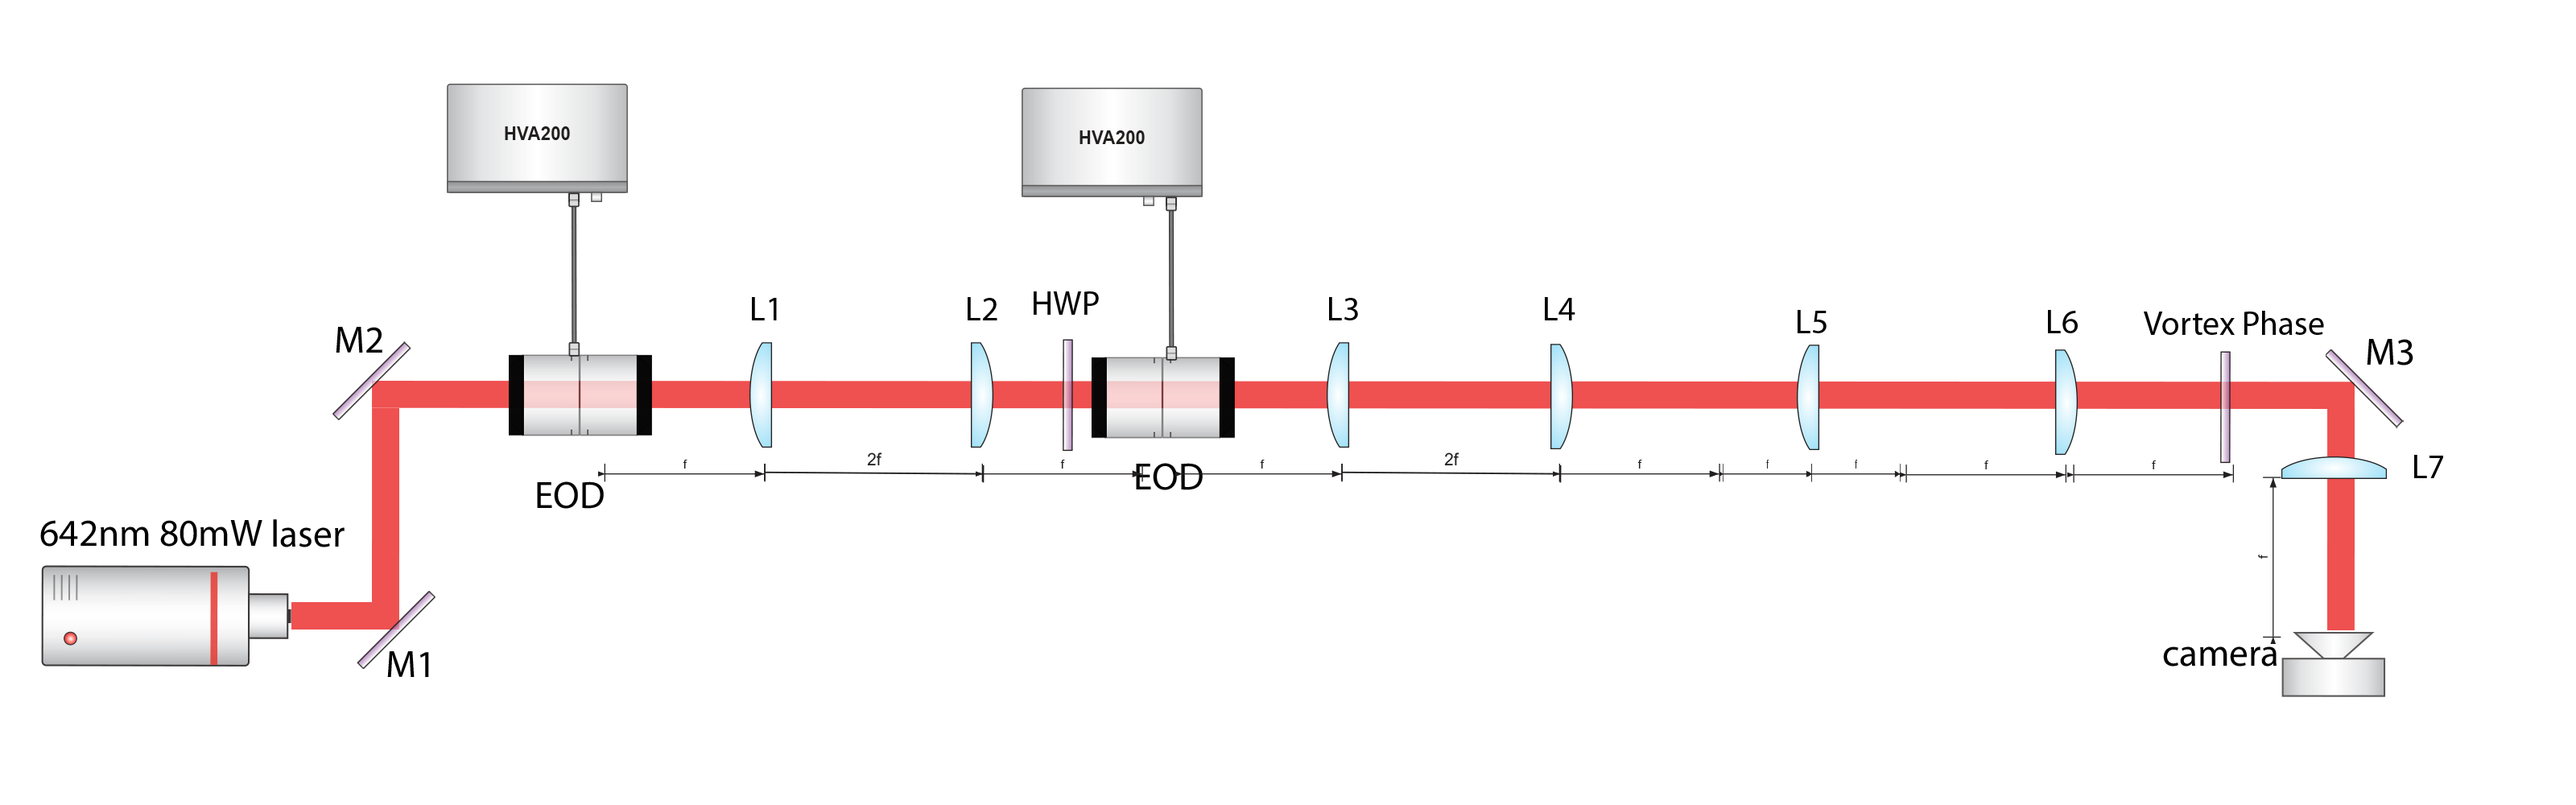
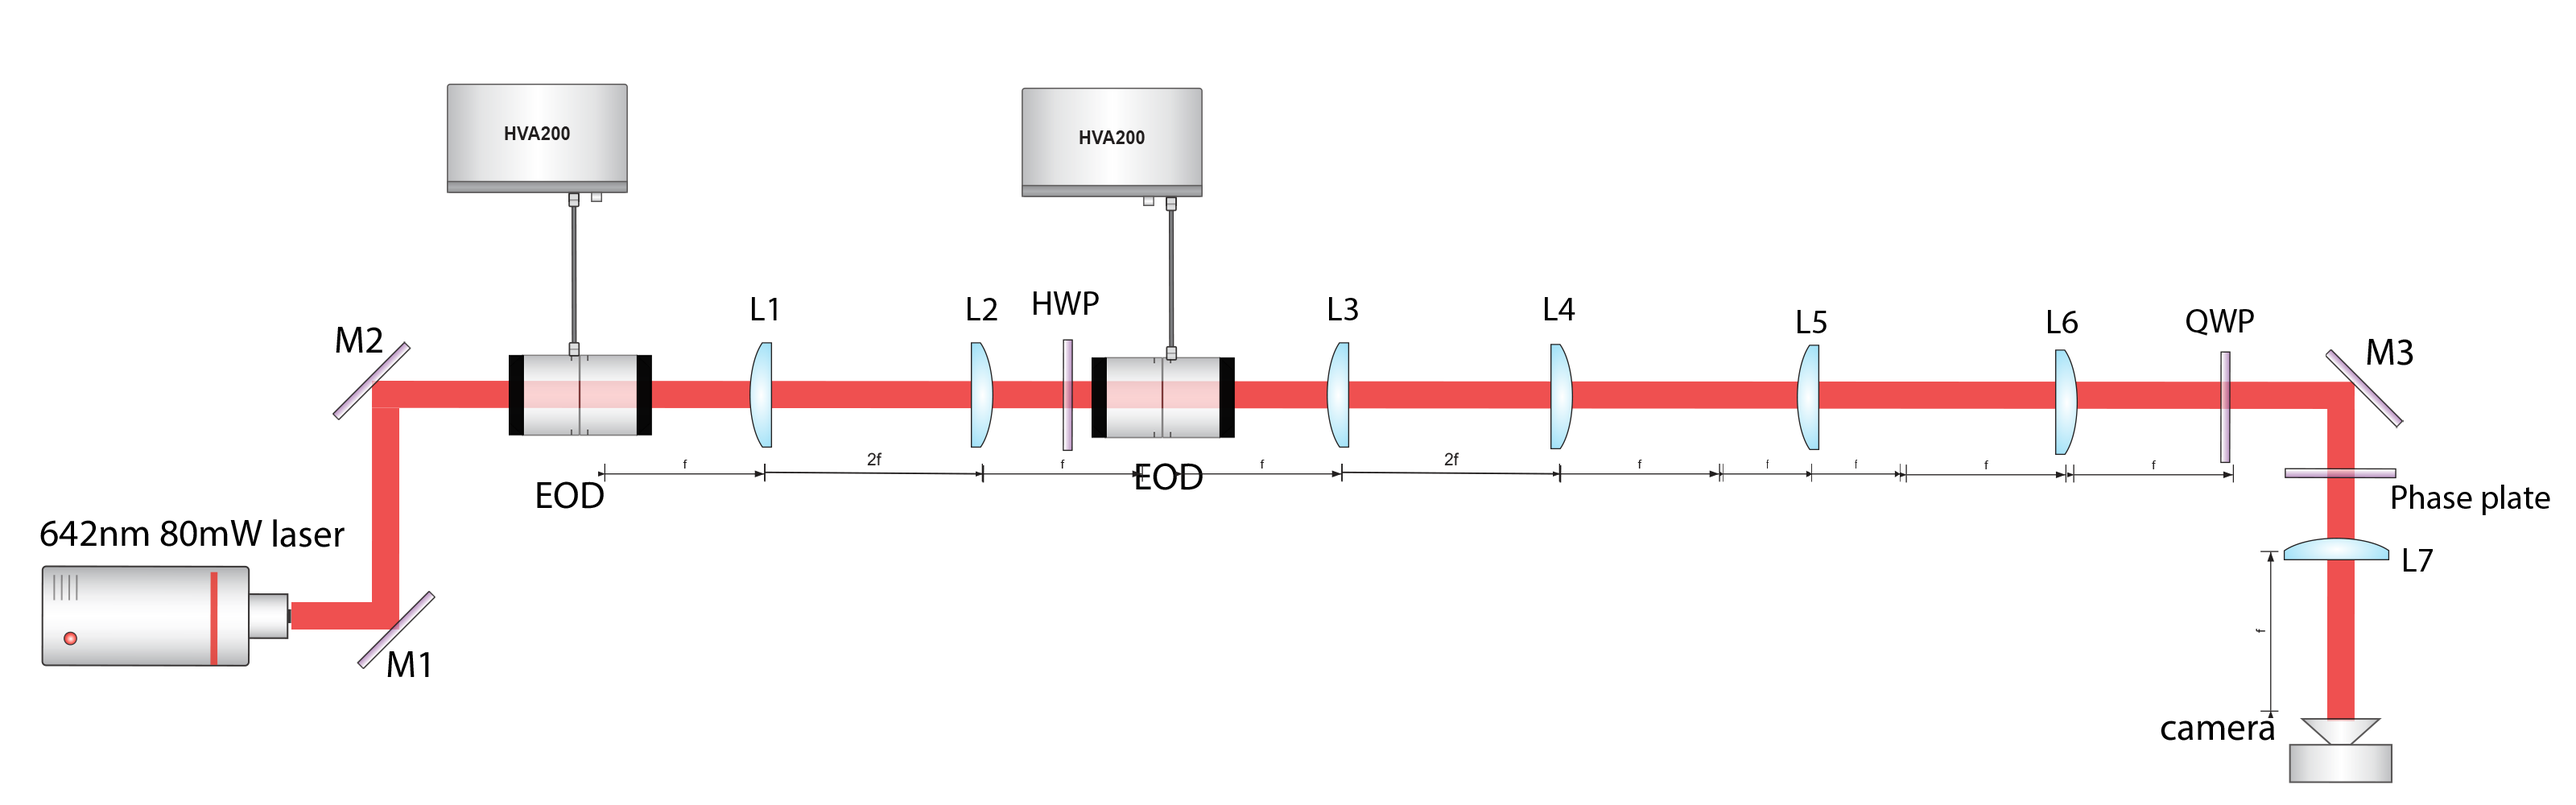
Place the QWP at the conjugate plane and the vortex plate after M3
Follows the user's corrected drawing: QWP one focal length beyond L6,
fold mirror M3, then the vortex plate just ahead of L7.

diff --git a/main.tex b/main.tex
@@ -1010,12 +1010,12 @@ than the other; an uneven ring is the signature of a decentred plate.
 Polarization adds one more condition, but only at high numerical aperture. When the beam is
 focused tightly by a microscope objective, part of the field turns to point along the axis, and that
 component can fill the zero unless the beam is circularly polarized with the handedness opposite to
-the twist of its phase \cite{lopezOptimizationCharacterizationToroidal2023}, which is why the
-instrument path carries a quarter-wave plate \cite{becerraQuantifyingProteinInteractions2024}. The
-bench measurements below focus the donut with a single lens of low numerical aperture, where the
-field remains transverse and the polarization does not affect the null, so they test the vortex
-itself; the bench carries no quarter-wave plate, and the polarization condition has to be verified
-at the focus of the objective.
+the twist of its phase \cite{lopezOptimizationCharacterizationToroidal2023}. This is why a
+quarter-wave plate sets circular polarization ahead of the vortex plate, both on the bench below
+and in the instrument \cite{becerraQuantifyingProteinInteractions2024}. The bench measurements
+focus the donut with a single lens of low numerical aperture, where the field remains transverse
+and the polarization should not affect the null, so they test the vortex itself; the handedness
+condition has to be verified at the focus of the objective.
 
 \subsection{Characterization}
 
@@ -1056,19 +1056,20 @@ two mirrors into EOD34, whose deflection plane lenses L1 and L2 relay onto EOD35
 plate between them setting the input polarization of the second crystal. Two further relays follow
 EOD35, each a pair of lenses two focal lengths apart: L3 and L4 image the deflection plane of EOD35
 onto an intermediate plane one focal length beyond L4, and L5 and L6 image that plane in turn onto
-the vortex phase plate, a Vortex Photonics \texttt{V-633-10-1} of charge one, placed one focal
-length beyond L6. The plate therefore sits in a plane conjugate to both deflectors: a deflection
-tilts the beam as it crosses the plate but does not move it across the plate's centre, which is the
-arrangement the instrument relies on to steer the donut without degrading it. After the plate the
-beam is folded by mirror M3 into lens L7, and the camera lies at the focal plane of L7. There the
-dark core is fully formed, and because that plane is the Fourier plane of the plate, a tilt at the
-plate appears as a displacement of the donut on the sensor, recorded directly with 5.2~\textmu m
-pixels.
+a plane one focal length beyond L6, conjugate to both deflectors. A quarter-wave plate sits in that
+plane and sets the beam to circular polarization. Mirror M3 then folds the beam onto the vortex
+phase plate, a Vortex Photonics \texttt{V-633-10-1} of charge one, placed just ahead of lens L7.
+Because the plate lies a short distance past the conjugate plane rather than in it, a deflection
+mostly tilts the beam as it crosses the plate but also shifts it slightly across the plate's centre,
+in proportion to that distance; in the instrument the plate sits at a pupil-conjugate plane, where
+the shift vanishes. The camera lies at the focal plane of L7, where the dark core is fully formed,
+and because a lens maps angle to position in its focal plane, a deflection appears as a
+displacement of the donut on the sensor, recorded directly with 5.2~\textmu m pixels.
 
 Three measurements were made, all on 4 June 2026. The first records the donut at rest, both
 deflectors at 0~V, as single frames: a characterization frame and a second frame taken after the
 alignment had been adjusted to darken the centre. The second compares the donut with and without a
-polarizer in the beam, and then with the polarization adjusted for the darkest centre.
+polarizer ahead of the quarter-wave plate, and then with the waveplates set for the darkest centre.
 The third sweeps each deflector in turn across its full range while the donut is recorded, to test
 whether the null survives deflection. A control frame is taken with both deflectors at 0~V, and then
 EOD34 is swept from $+10$ to $-10$~V of command voltage, the full $\pm200$~V at the amplifier, in
@@ -1081,9 +1082,10 @@ swept the same way with EOD34 held at 0~V.
     \caption{Donut-forming bench, built on the relayed deflector pair of
     Figure~\ref{fig:eod-setup-relay-two-deflectors}. A half-wave plate (HWP) ahead of EOD35 sets
     the polarization that crystal requires. The relays L3--L4 and L5--L6 image the deflectors onto
-    the vortex phase plate, one focal length beyond L6; mirror M3 folds the beam into L7, and the
-    camera lies at the focal plane of L7, where the donut forms. Spacings are marked beneath the
-    rail in focal lengths.}
+    a plane one focal length beyond L6, where a quarter-wave plate (QWP) sets circular
+    polarization; mirror M3 folds the beam onto the vortex phase plate ahead of L7, and the camera
+    lies at the focal plane of L7, where the donut forms. Spacings are marked beneath the rail in
+    focal lengths.}
     \label{fig:donut-setup-creation}
 \end{figure}
 
